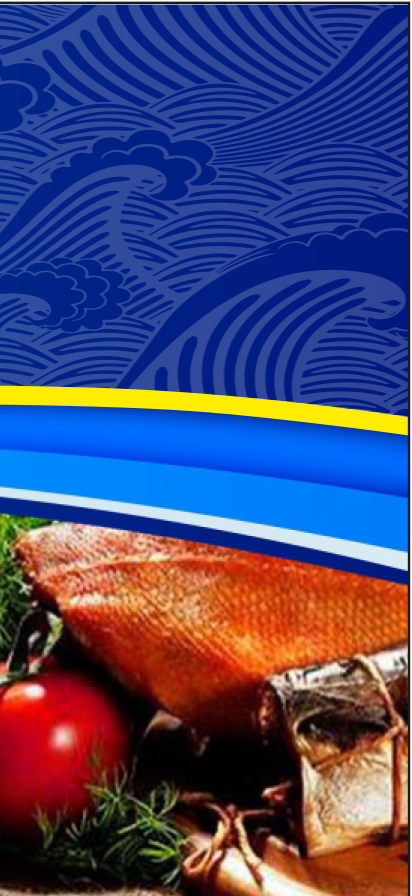
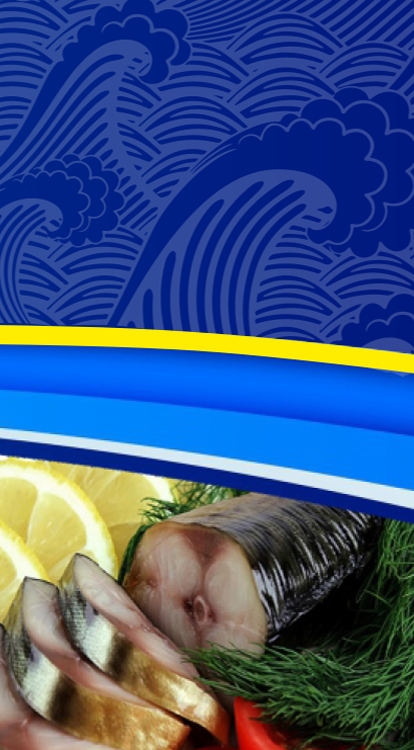
fixed and optimized backgrounds

diff --git a/src/pages/blocks/Title.js b/src/pages/blocks/Title.js
@@ -5,7 +5,8 @@ import ReactInterval from 'react-interval'
 import './Title.css'
 import Button from '../components/Button'
 // import adaptiveFontSize from '../../helpers/adaptiveFontSize'
-import background from '../../img/background.png'
+import background from '../../img/background.jpg'
+import background1370 from '../../img/background1370.jpg'
 import phoneBackground1 from '../../img/phone/background_small1.png'
 import phoneBackground2 from '../../img/phone/background_small2.png'
 import phoneBackground3 from '../../img/phone/background_small3.png'
@@ -223,7 +224,11 @@ const Title = ({
           backgroundPosition: 'center',
           transition: 'background 0.8s linear',
           backgroundImage: `url(${
-            deviceSize === 0 ? mobileBackgrounds[bgNum] : background
+            deviceSize === 0
+              ? mobileBackgrounds[bgNum]
+              : deviceSize <= 4
+              ? background1370
+              : background
           })`,
         }}
       >
